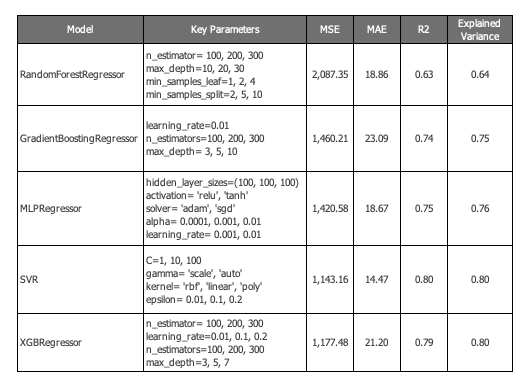
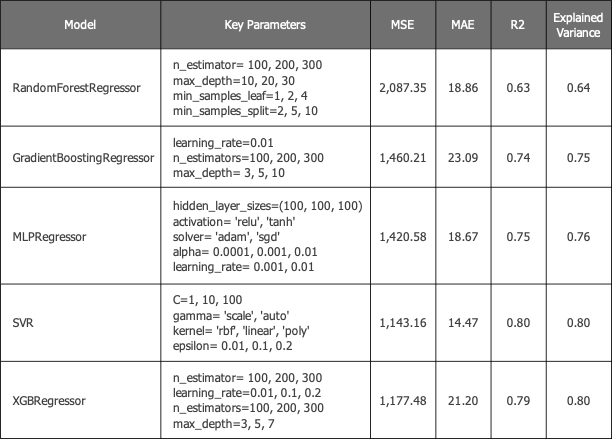
update app files

diff --git a/code_app/templates/index.html b/code_app/templates/index.html
@@ -691,27 +691,24 @@
                     </div>
                     <div class="row">
                         <div class="col-md-5">
-                            <p> </p>
+                            <p>The below table summarizes the key parameter options provided to the respective models and the final performace metrics of the lithium concentration predictions for each model.</p>
                         </div>
                         <div class="col-md-7">
-                            <p>Toggle the lithium concentration data sets on and off using the selections in the top right corner of the map below to view the predicted values to see which model(s) compare best with the actual data.</p>
+                            <p>Toggle the lithium concentration data sets on and off using the check boxes in the top right corner of the map below to view the predicted values to see which model(s) compare best with the actual data.</p>
                         </div>
                     </div>
-                    <div class="row">
+                    <!-- <div class="row">
                         <div class="col-md-12">
                             <p> </p>
                         </div>
-                    </div>
+                    </div> -->
                     <div class="row">
                         <div class="col-md-5">
-                            <div class="row">
-                                <img id="imgElement_Table" src="{{ url_for('static', filename='images/li_plots/MTSC_table.png') }}" alt="Table">
-                            </div>
-                            <div class="row">
-                                MSE = Mean Squared Error <br>
-                                MAE = Mean Absolute Error <br>
-                                R2 = Coefficient of Determination <br>
-                            </div>
+                            <img id="imgElement_Table" src="{{ url_for('static', filename='images/li_plots/MTSC_table_for_bootstrap.png') }}" alt="Table">
+                            <br>
+                            &nbsp;&nbsp;MSE = Mean Squared Error <br>
+                            &nbsp;&nbsp;MAE = Mean Absolute Error <br>
+                            &nbsp;&nbsp;R2 = Coefficient of Determination <br>
                         </div>
                         <div class="col-md-7">
                             <iframe id="map5" src="{{ url_for('map5') }}" height="650" width=100% title="map1"></iframe>

diff --git a/code_app/static/css/style.css b/code_app/static/css/style.css
@@ -112,16 +112,28 @@ body {
     border-radius: 5px;
 }
 
-.container [id^="imgElement_Table"] {
-    object-fit: contain; /* maintain aspect ratio and fit within container */
-    object-fit: fill; /* maintain aspect ratio and cover container */
-    max-width: 100%; /* ensure images don't exceed container width */
-    height: auto; /* maintain aspect ratio */
-    margin: 3px; /* add spacing between images */
-    object-position: center; /* center the image */
-    float: center;
-    border-radius: 5px;
+/* .container [id^="imgElement_Table"] { */
+    /* object-fit: contain; maintain aspect ratio and fit within container */
+    /* object-fit: fill; maintain aspect ratio and cover container */
+    /* max-width: 100%; ensure images don't exceed container width */
+    /* height: auto; maintain aspect ratio */
+    /* margin: 3px; add spacing between images */
+    /* object-position: center; center the image */
+    /* float: center; */
+    /* border: 3px solid #996600; */
+    /* border-radius: 8px; */
+/* } */
+
+.container #imgElement_Table {
+    width: 100%; /* Ensure the image fills the width of the column */
+    height: auto; /* Maintain aspect ratio */
+    object-fit: contain; /* Maintain aspect ratio and fit within container */
+    border: 3px solid #996600;
+    border-radius: 6px;
+    display: block; /* Ensure the image is displayed as a block element */
+    margin: 3px auto; /* Add spacing between images and center horizontally */
 }
+
 
 .container [id^="imgElement_BoxPlot"] {
     max-width: 47%; /* ensure images don't exceed container width */
